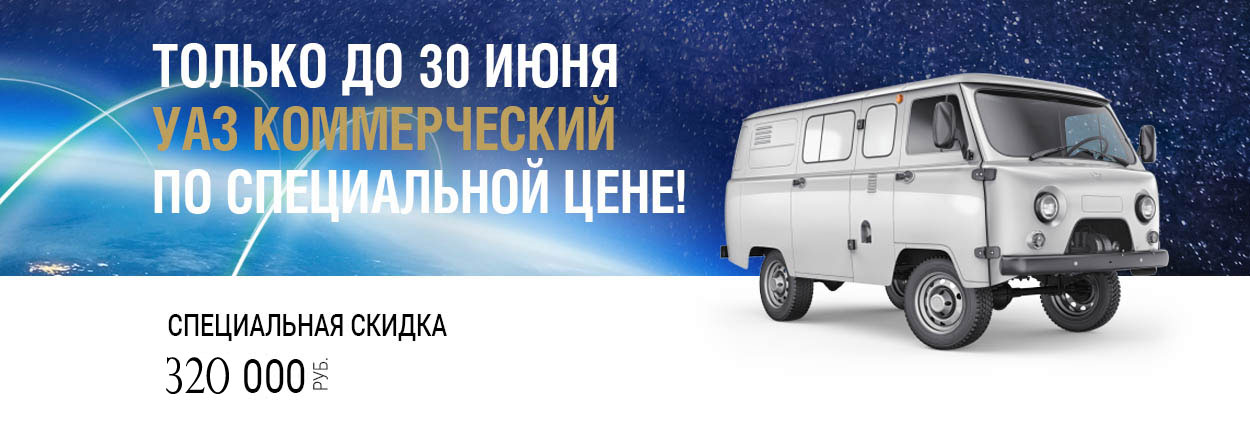
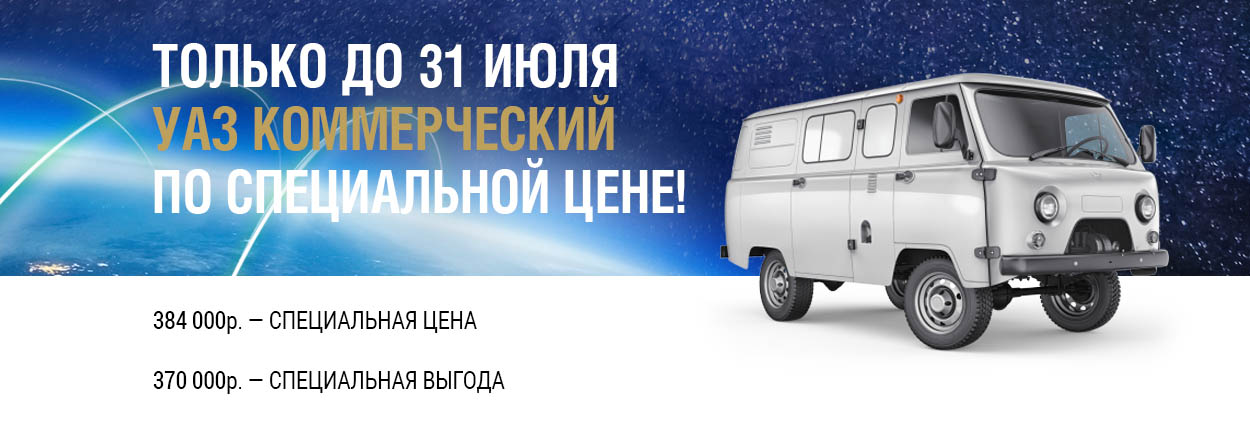
скидка

Changed region(s): [[0.1248, 0.822, 0.4056, 0.9438], [0.1248, 0.7307, 0.4056, 0.7916], [0.3432, 0.0913, 0.468, 0.2131]]

diff --git a/hunter.html b/hunter.html
@@ -68,16 +68,25 @@
 
 
             </div>
-            <h1>Скидка 280 000 рублей!</h1>
+            <h1><b>349 000</b> рублей — максимальная выгода</h1>
 
-            <p>Только до <strong>30 июня 2016 года.</strong> при покупке УАЗ ХАНТЕР в автосалонах Торгмаш вы можете получить скидку <strong>280 000 рублей!</strong>
-            </p>
-            <p>Подарок от ТОРГМАШ до <strong>115 000 рублей</strong></p>
+<!--             <p>Только до <strong>30 июня 2016 года.</strong> при покупке УАЗ ХАНТЕР в автосалонах Торгмаш вы можете получить скидку <strong>280 000 рублей!</strong>
+            </p> -->
+            <!-- <p>Подарок от ТОРГМАШ до <strong>115 000 рублей</strong></p> -->
             <!-- <p>Скидка <strong>50 000 рублей</strong> за год выпуска.</p> -->
-            <p>Скидка <strong>50 000 рублей</strong> по программе "УАЗ-кредит".</p>
+<!--             <p>Скидка <strong>50 000 рублей</strong> по программе "УАЗ-кредит".</p>
             <p>Скидка <strong>115 000 рублей</strong> по спецпрограмме утилизация/трейд-ин.</p>
             <p><i>*Срок действия программы — до 30 июня 2016 года.</i>
-            </p>
+            </p> -->
+            <p>Только у официального дилера УАЗ «ТоргМаш» комбинированная скидка:</strong>
+              </p>
+              <ol>
+                <li>до 209 000 р. ДАЕМ ПРЯМЫЕ СКИДКИ</li>
+                <li>до 310 000 р. ДАРИМ ДОП.ОБОРУДОВАНИЕ</li>
+                <li>до 349 000 р. ДАЕМ СКИДКУ И ДАРИМ ОБОРУДОВАНИЕ</li>
+              </ol>
+              <p><strong>Это реально!</strong></p>
+              <p>Один шаг до максимальных скидок – заполните заявку или позвоните в дилерский центр «ТоргМаш» – ВСЕ остальное мы сделаем сами!</p>
             <hr>
 
             <div>

diff --git a/commerce.html b/commerce.html
@@ -68,17 +68,30 @@
 
 
                 </div>
-                <h1>Скидка 320 000 рублей!</h1>
+<!--                 <h1>Скидка 320 000 рублей!</h1>
 
                 <p>Только до <strong>30 июня 2016 года.</strong> при покупке УАЗ Коммерческий в автосалонах Торгмаш вы можете получить скидку <strong>320 000 рублей!</strong>
                 </p>
       <p>Подарок от ТОРГМАШ до <strong>135 000 рублей</strong></p>
-      <!-- <p>Скидка <strong>50 000 рублей</strong> за год выпуска.</p> -->
+      <p>Скидка <strong>50 000 рублей</strong> за год выпуска.</p>
       <p>Скидка <strong>50 000 рублей</strong> по программе "УАЗ-кредит".</p>
       <p>Скидка <strong>135 000 рублей</strong> по спецпрограмме утилизация/трейд-ин.</p>
       <p><i>*Срок действия программы — до 30 июня 2016 года.</i>
                 </p>
-                <hr>
+                <hr> -->
+
+                  <h1>МАКСИМАЛЬНАЯ ВЫГОДА <b>370 000</b> рублей!</h1>
+
+                  <p>Только у официального дилера УАЗ «ТоргМаш» комбинированная скидка:</strong>
+                  </p>
+                  <ol>
+                    <li>до 200 000 р. ДАЕМ ПРЯМЫЕ СКИДКИ</li>
+                    <li>до 370 000 р. ДАРИМ ОБОРУДОВАНИЕ</li>
+                    <li>до 350 000 р. ДАЕМ СКИДКУ И ДАРИМ ОБОРУДОВАНИЕ</li>
+                  </ol>
+                  <p><strong>Это реально!</strong></p>
+                  <p>Один шаг до максимальных скидок – заполните заявку или позвоните в дилерский центр «ТоргМаш» – ВСЕ остальное мы сделаем сами!</p>
+                  <hr>
 
                 <div>
 

diff --git a/patriot.html b/patriot.html
@@ -68,14 +68,14 @@
 
 
       </div>
-      <h1>МАКСИМАЛЬНАЯ ВЫГОДА 445 000 рублей!</h1>
+      <h1>МАКСИМАЛЬНАЯ ВЫГОДА 510 000 рублей!</h1>
 
       <p>Только у официального дилера УАЗ «ТоргМаш» комбинированная скидка:</strong>
       </p>
       <ol>
-        <li>до 300 000 р. ДАЕМ МАКСИМАЛЬНЫЕ СКИДКИ</li>
-        <li>до 360 000 р. ДАРИМ ОБОРУДОВАНИЕ</li>
-        <li>до 490 000 р. ДАЕМ СКИДКУ И ДАРИМ ОБОРУДОВАНИЕ</li>
+        <li>до 310 000 р. ДАЕМ МАКСИМАЛЬНЫЕ СКИДКИ</li>
+        <li>до 500 000 р. ДАРИМ ОБОРУДОВАНИЕ</li>
+        <li>до 510 000 р. ДАЕМ СКИДКУ И ДАРИМ ОБОРУДОВАНИЕ</li>
       </ol>
       <p><strong>Это реально!</strong></p>
       <p>Один шаг до максимальных скидок – заполните заявку или позвоните в дилерский центр «ТоргМаш» – ВСЕ остальное мы сделаем сами!</p>
